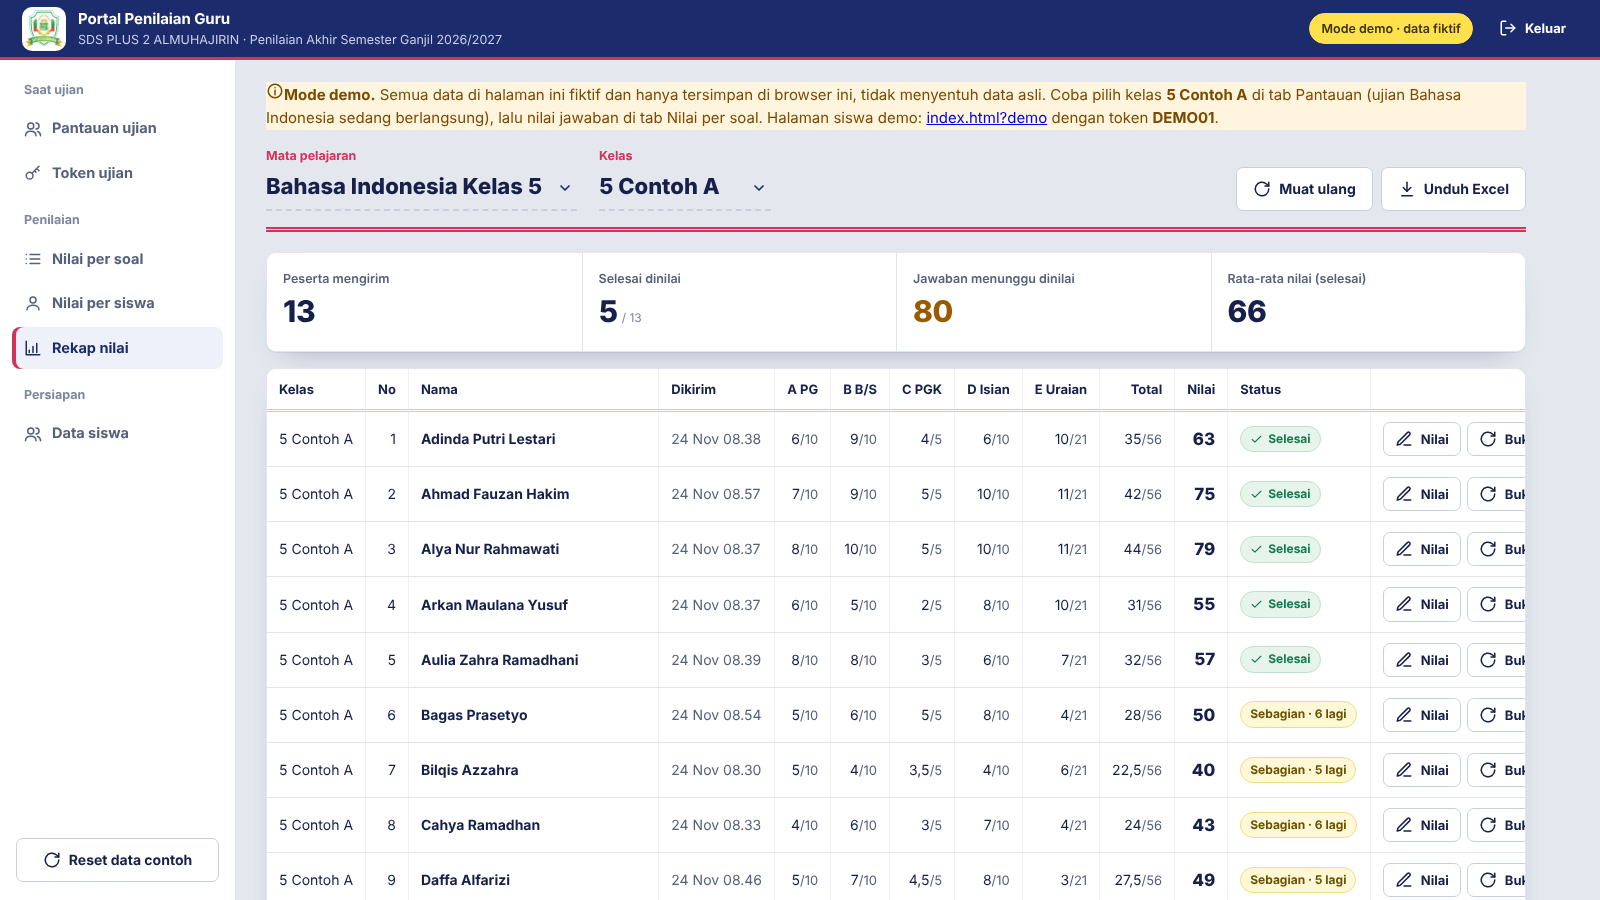
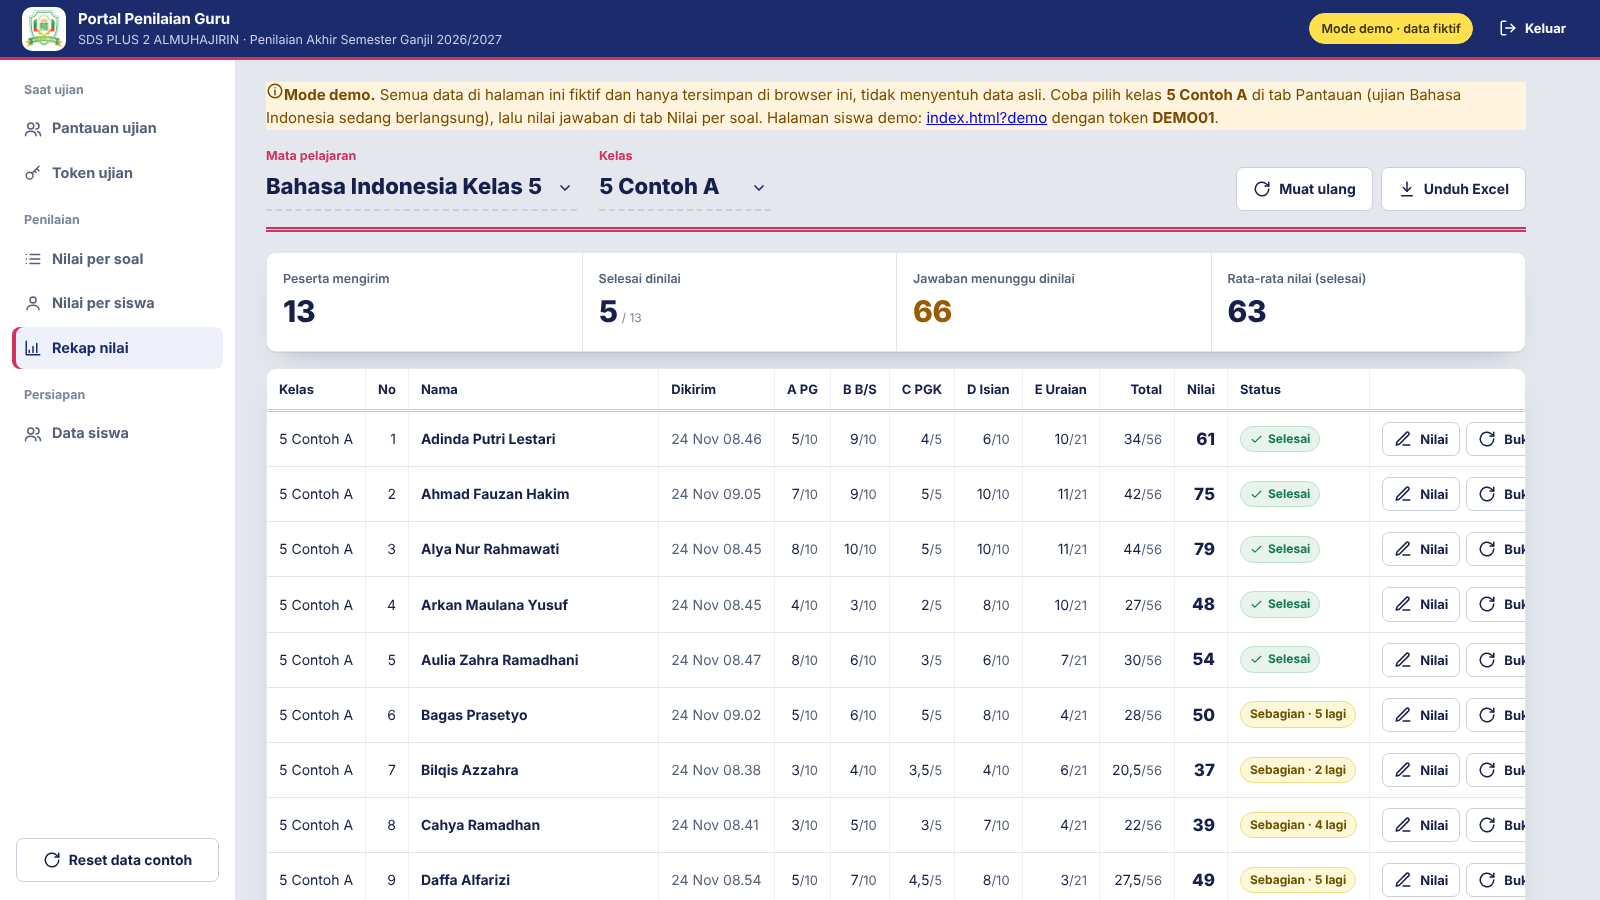
Penskoran mengikuti kunci sekolah: alasan hanya dinilai bila pilihan benar; PGK kelas 5 lengkap 1, sebagian 0,5
Claude-Session: https://claude.ai/code/session_019oLb9Qt4igzkPRNwPYjrtt

diff --git a/guru.html b/guru.html
@@ -6,7 +6,7 @@
 <link rel="icon" type="image/png" href="assets/logo-sekolah.png">
 <meta name="robots" content="noindex">
 <title>Portal Penilaian PAS — Guru</title>
-<link rel="stylesheet" href="assets/style.css?v=20261124c">
+<link rel="stylesheet" href="assets/style.css?v=20261124d">
 <style>
   .pin-wrap{max-width:380px;margin:80px auto;padding:0 20px}
   .pin-wrap .card{padding:28px}
@@ -339,13 +339,13 @@
 <script src="https://www.gstatic.com/firebasejs/10.12.2/firebase-app-compat.js"></script>
 <script src="https://www.gstatic.com/firebasejs/10.12.2/firebase-firestore-compat.js"></script>
 <script src="https://www.gstatic.com/firebasejs/10.12.2/firebase-auth-compat.js"></script>
-<script src="config.js?v=20261124c"></script>
-<script src="soal.js?v=20261124c"></script>
-<script src="kunci.js?v=20261124c"></script>
-<script src="assets/icons.js?v=20261124c"></script>
-<script src="assets/db.js?v=20261124c"></script>
-<script src="assets/penilaian.js?v=20261124c"></script>
-<script src="assets/demo.js?v=20261124c"></script>
+<script src="config.js?v=20261124d"></script>
+<script src="soal.js?v=20261124d"></script>
+<script src="kunci.js?v=20261124d"></script>
+<script src="assets/icons.js?v=20261124d"></script>
+<script src="assets/db.js?v=20261124d"></script>
+<script src="assets/penilaian.js?v=20261124d"></script>
+<script src="assets/demo.js?v=20261124d"></script>
 <script src="https://cdn.jsdelivr.net/npm/xlsx@0.18.5/dist/xlsx.full.min.js"></script>
 <script>
 (function () {
@@ -363,11 +363,11 @@
   let hanyaPending = false;
 
   /* ---------- UI awal ---------- */
-  $("brandMark").innerHTML = '<img src="assets/logo-sekolah.png?v=20261124c" alt="Logo SD Plus 2 Al-Muhajirin" width="38" height="38" style="width:38px;height:38px;object-fit:contain" draggable="false">';
+  $("brandMark").innerHTML = '<img src="assets/logo-sekolah.png?v=20261124d" alt="Logo SD Plus 2 Al-Muhajirin" width="38" height="38" style="width:38px;height:38px;object-fit:contain" draggable="false">';
   $("brandSub").textContent = C.NAMA_SEKOLAH + " · " + C.JUDUL_UJIAN + " " + C.TAHUN_AJARAN;
   $("modeChip").className = "chip " + (DB.mode === "firebase" ? "live" : "demo");
   $("modeChip").textContent = DB.mode === "firebase" ? "Online" : "Mode demo";
-  $("pinIc").innerHTML = '<img src="assets/logo-sekolah.png?v=20261124c" alt="Logo SD Plus 2 Al-Muhajirin" width="76" height="76" style="width:76px;height:76px;object-fit:contain" draggable="false">';
+  $("pinIc").innerHTML = '<img src="assets/logo-sekolah.png?v=20261124d" alt="Logo SD Plus 2 Al-Muhajirin" width="76" height="76" style="width:76px;height:76px;object-fit:contain" draggable="false">';
   $("btnKeluar").innerHTML = ico("logout") + " Keluar";
   $("btnMuat").innerHTML = ico("refresh") + " Muat ulang";
   $("btnExport").innerHTML = ico("download") + " Unduh Excel";

diff --git a/index.html b/index.html
@@ -5,7 +5,7 @@
 <meta name="viewport" content="width=device-width, initial-scale=1">
 <link rel="icon" type="image/png" href="assets/logo-sekolah.png">
 <title>Portal Ujian PAS — Siswa</title>
-<link rel="stylesheet" href="assets/style.css?v=20261124c">
+<link rel="stylesheet" href="assets/style.css?v=20261124d">
 <style>
   /* =================== MASUK & PETUNJUK =================== */
   .login-wrap{max-width:1120px;margin:0 auto;padding:36px 22px 60px}
@@ -220,7 +220,7 @@
   <form class="card login-card" id="formMasuk" autocomplete="off">
     <div class="login-left">
       <div>
-        <img class="login-logo" src="assets/logo-sekolah.png?v=20261124c" alt="Logo SD Plus 2 Al-Muhajirin" width="72" height="72" draggable="false">
+        <img class="login-logo" src="assets/logo-sekolah.png?v=20261124d" alt="Logo SD Plus 2 Al-Muhajirin" width="72" height="72" draggable="false">
         <h1>Ujian Penilaian Akhir Semester</h1>
         <p class="lead">Pilih kelas dan namamu, pilih mata pelajaran, lalu masukkan token dari pengawas.</p>
       </div>
@@ -341,11 +341,11 @@
 
 <script src="https://www.gstatic.com/firebasejs/10.12.2/firebase-app-compat.js"></script>
 <script src="https://www.gstatic.com/firebasejs/10.12.2/firebase-firestore-compat.js"></script>
-<script src="config.js?v=20261124c"></script>
-<script src="soal.js?v=20261124c"></script>
-<script src="assets/icons.js?v=20261124c"></script>
-<script src="assets/db.js?v=20261124c"></script>
-<script src="assets/demo.js?v=20261124c"></script>
+<script src="config.js?v=20261124d"></script>
+<script src="soal.js?v=20261124d"></script>
+<script src="assets/icons.js?v=20261124d"></script>
+<script src="assets/db.js?v=20261124d"></script>
+<script src="assets/demo.js?v=20261124d"></script>
 <script>
 (function () {
   const C = CONFIG, B = BANK_SOAL, T = TIPE_INFO;
@@ -358,7 +358,7 @@
   const MIN_ALASAN = C.ALASAN_MIN_KARAKTER || 10;
 
   /* ---------- Header & teks tombol ---------- */
-  $("brandMark").innerHTML = '<img src="assets/logo-sekolah.png?v=20261124c" alt="Logo SD Plus 2 Al-Muhajirin" width="38" height="38" style="width:38px;height:38px;object-fit:contain" draggable="false">';
+  $("brandMark").innerHTML = '<img src="assets/logo-sekolah.png?v=20261124d" alt="Logo SD Plus 2 Al-Muhajirin" width="38" height="38" style="width:38px;height:38px;object-fit:contain" draggable="false">';
   $("brandTitle").textContent = C.JUDUL_UJIAN + " · " + C.TAHUN_AJARAN;
   $("brandSub").textContent = C.NAMA_SEKOLAH;
   $("modeChip").className = "chip " + (DB.mode === "firebase" ? "live" : "demo");

diff --git a/kunci.js b/kunci.js
@@ -60,6 +60,7 @@ window.KUNCI = {
 
 /* ===== Bahasa Indonesia Kelas 5 — kunci dari FORMAT_KISI_KUNJAW_SAS_L5 =====
    Skor maksimal 56: PG 5×2, B/S 5×2, PGK 5×1, Isian 10×1, Uraian 5+4+4+4+4.
+   PGK: lengkap & tepat = 1, sebagian tepat = 0,5 (kriteria 2/1/0 di file disetarakan ke maksimal 1).
    "alasan" = acuan untuk guru saat menilai alasan siswa. */
 Object.assign(window.KUNCI, {
   "B5-PG1": { k: "B", alasan: "Inti cerita: teman-teman sekelompok bersama-sama membantu Raka menyelamatkan tanaman cabainya yang layu." },
@@ -74,11 +75,11 @@ Object.assign(window.KUNCI, {
   "B5-BS4": { k: "B", alasan: "membersihkan = me- + bersih + -kan (konfiks me-kan)." },
   "B5-BS5": { k: "S", alasan: "Kalimat itu memakai kata pembanding “seperti”, jadi majas simile (perumpamaan), bukan personifikasi." },
 
-  "B5-PGK1": { k: "AC" },
-  "B5-PGK2": { k: "BD" },
-  "B5-PGK3": { k: "AD" },
-  "B5-PGK4": { k: "BC" },
-  "B5-PGK5": { k: "CD" },
+  "B5-PGK1": { k: "AC", maks: 1, sebagian: 0.5 },
+  "B5-PGK2": { k: "BD", maks: 1, sebagian: 0.5 },
+  "B5-PGK3": { k: "AD", maks: 1, sebagian: 0.5 },
+  "B5-PGK4": { k: "BC", maks: 1, sebagian: 0.5 },
+  "B5-PGK5": { k: "CD", maks: 1, sebagian: 0.5 },
 
   "B5-IS1":  { k: ["gotong royong", "gotong-royong", "bergotong royong", "bergotong-royong", "nilai gotong royong"] },
   "B5-IS2":  { k: ["kesopanan", "norma kesopanan"] },

diff --git a/config.js b/config.js
@@ -58,7 +58,7 @@ window.CONFIG = {
   },
   // true  = alasan hanya dinilai bila pilihan jawabannya benar (pilihan salah -> alasan otomatis 0)
   // false = alasan dinilai guru apa pun pilihannya
-  ALASAN_HANYA_JIKA_JAWABAN_BENAR: false,
+  ALASAN_HANYA_JIKA_JAWABAN_BENAR: true,
 
   // Rubrik singkat yang tampil di tombol skor
   RUBRIK_ALASAN: {

diff --git a/README.md b/README.md
@@ -38,8 +38,8 @@ Siswa masuk dengan memilih **kelas** lalu **nama** dari daftar. Nomor siswa = ur
 
 | Bagian | Otomatis | Manual oleh guru | Maks/soal | Jumlah soal | Maks bagian |
 |---|---|---|---|---|---|
-| A. PG beralasan | Pilihan benar = 1 | Alasan benar = 1 | 2 | 5 | 10 |
-| B. Benar/Salah beralasan | Pilihan benar = 1 | Alasan benar = 1 | 2 | 5 | 10 |
+| A. PG beralasan | Pilihan benar = 1 | Alasan benar = 1 (hanya bila pilihan benar) | 2 | 5 | 10 |
+| B. Benar/Salah beralasan | Pilihan benar = 1 | Alasan benar = 1 (hanya bila pilihan benar) | 2 | 5 | 10 |
 | C. PG kompleks | Maks 1 (parsial: (benar − salah) / jumlah kunci) | – | 1 | 5 | 5 |
 | D. Isian | Dicocokkan dengan daftar jawaban di `kunci.js` | Guru bisa mengubah benar/salah | 1 | 10 | 10 |
 | E. Uraian | – | 0–3 sesuai rubrik | 3 | 5 | 15 |
@@ -51,7 +51,7 @@ Skor maksimal uraian dan PG kompleks bisa diatur per soal lewat `maks` (dan pand
 - Bahasa Indonesia Kelas 5: maksimal 56 (PGK 1 per soal; uraian 5, 4, 4, 4, 4)
 - Bahasa Indonesia Kelas 6: maksimal 63 (PGK 2 per soal: lengkap 2, sebagian 1; uraian 5, 4, 5, 4, 5)
 Alasan atau uraian yang dikosongkan siswa otomatis bernilai 0.
-`ALASAN_HANYA_JIKA_JAWABAN_BENAR: true` membuat alasan otomatis 0 bila pilihan jawabannya salah. PG kompleks bisa dibuat harus tepat semua dengan `mode: "mutlak"`.
+Sesuai kunci penskoran sekolah, `ALASAN_HANYA_JIKA_JAWABAN_BENAR: true`: pilihan salah = 0 untuk soal itu, alasannya tidak dinilai (ubah ke `false` bila alasan ingin tetap dinilai). PG kompleks bisa dibuat harus tepat semua dengan `mode: "mutlak"`.
 
 Dua cara menilai:
 - **Nilai per siswa** — buka satu siswa, nilai semua jawabannya, lalu "Siswa berikutnya".
